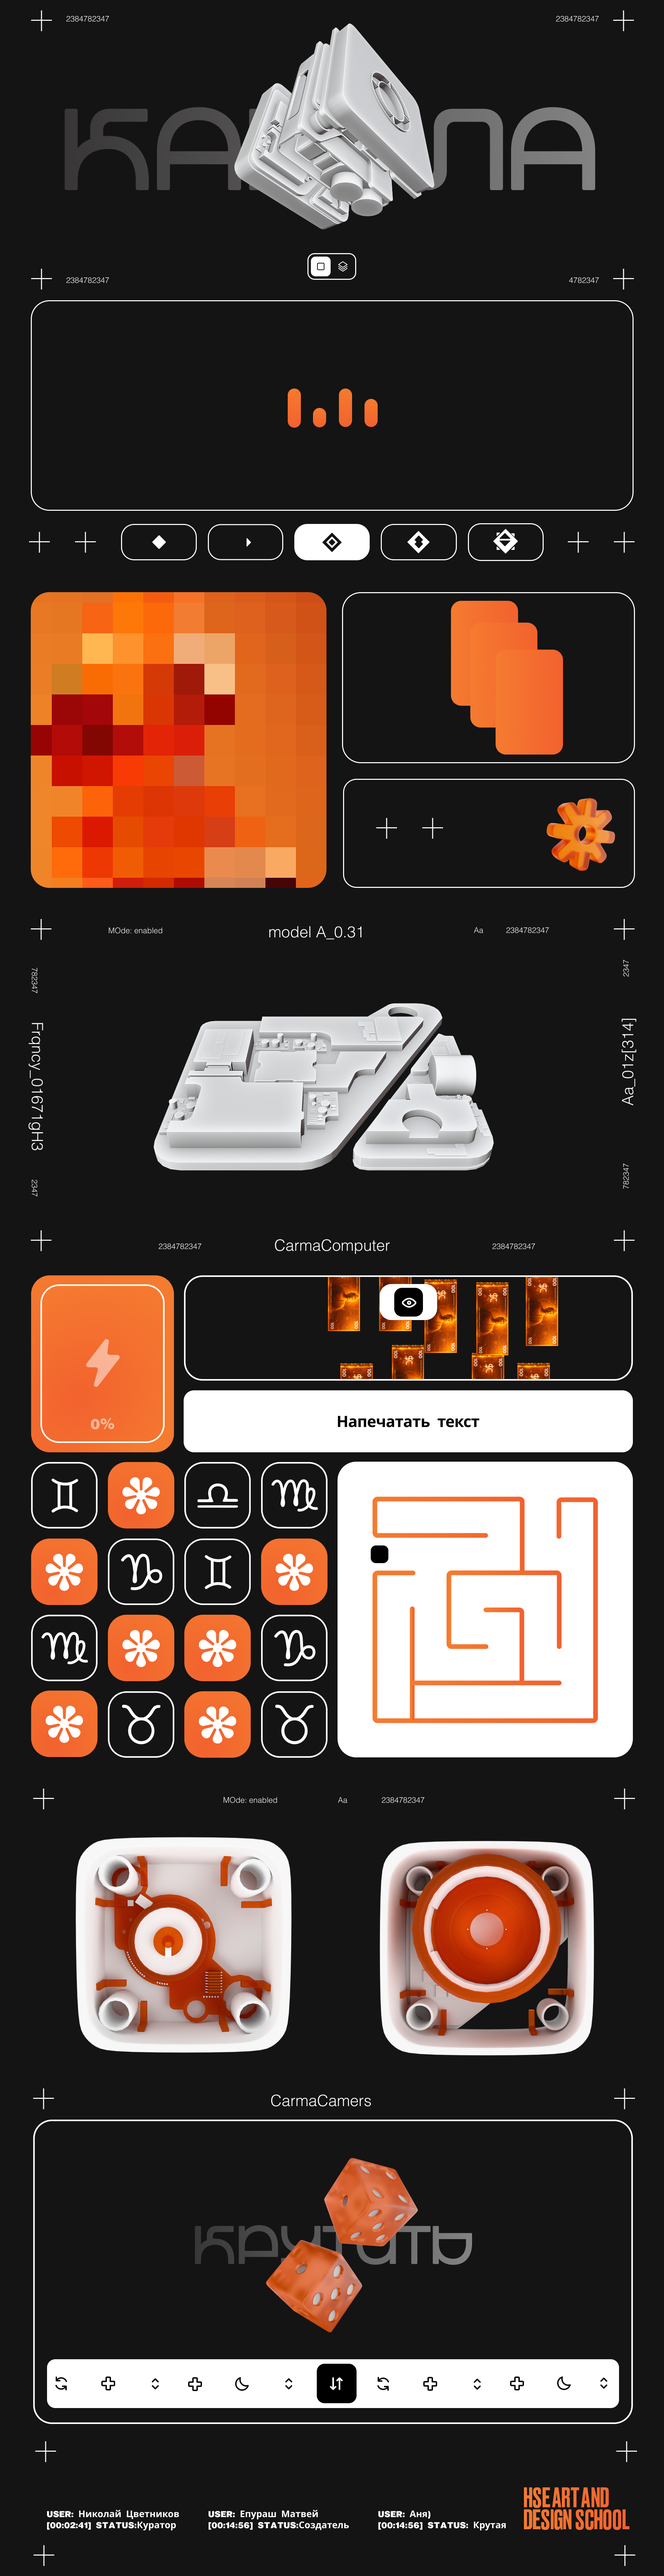
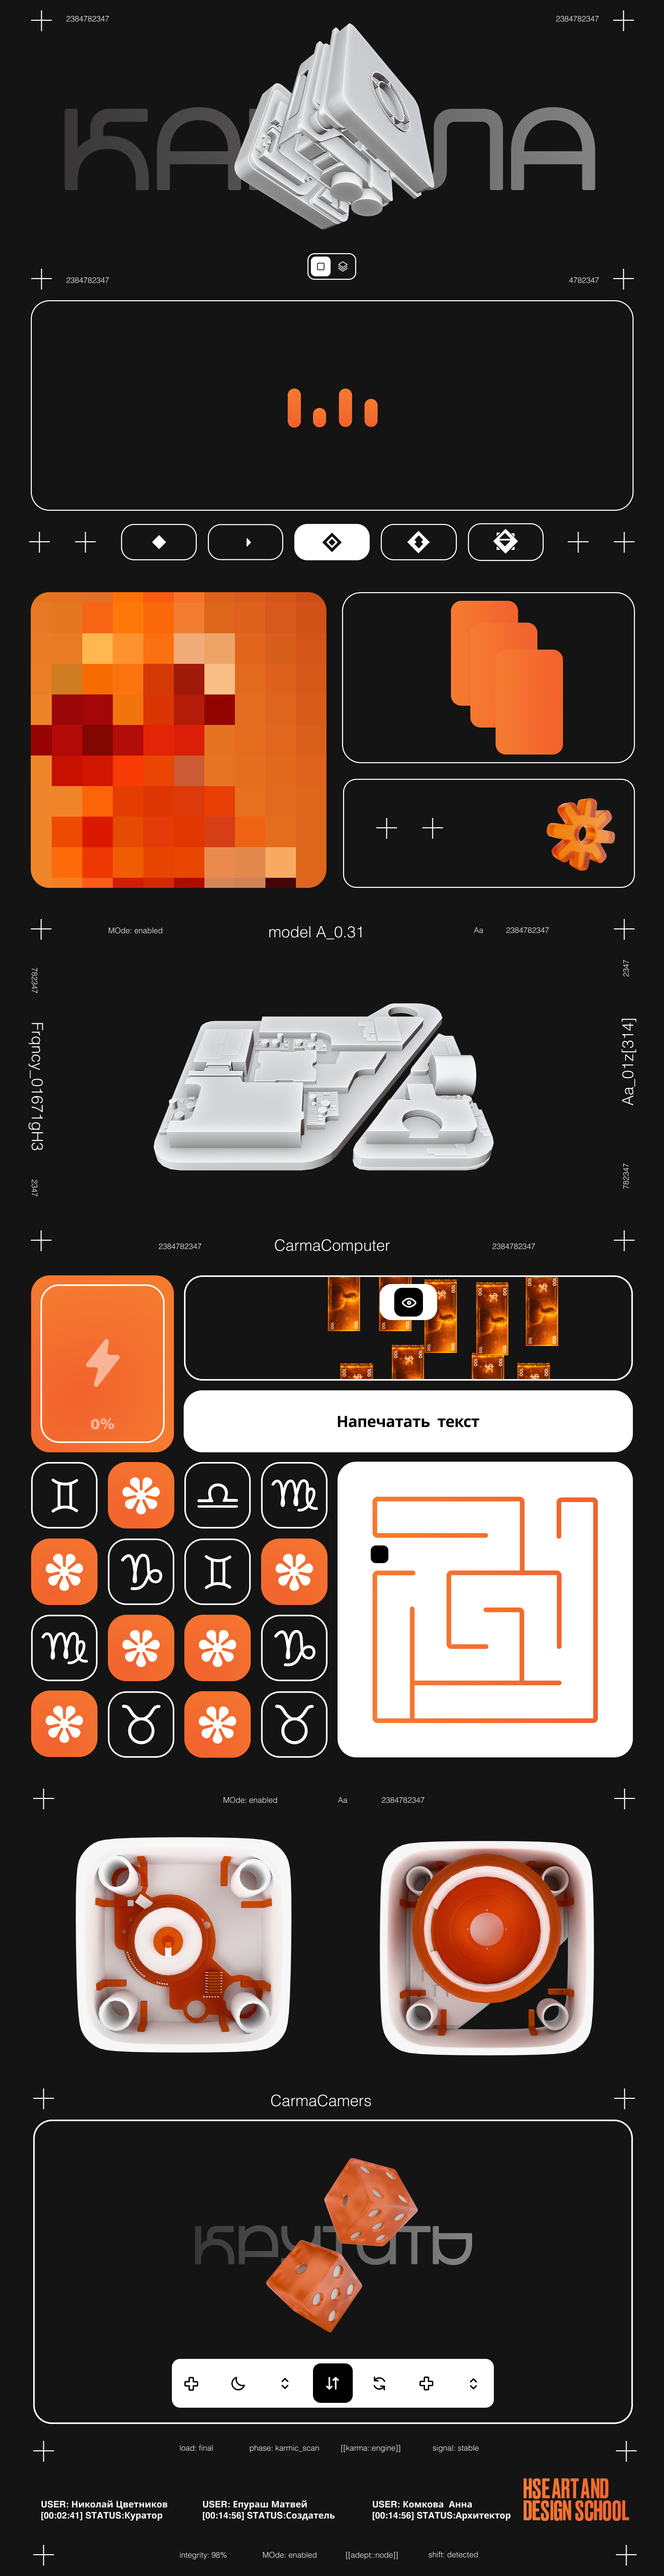
codfdfadsf

diff --git a/Stylesheets/layout.css b/Stylesheets/layout.css
@@ -354,7 +354,6 @@ body::before {
   transform: rotate(90deg);
 }
 .name3 {
-  display: inline-block;
   position: absolute;
   color: #fff;
   transform: rotate(-90deg);
@@ -364,7 +363,7 @@ body::before {
   font-style: normal;
   font-weight: 300;
   line-height: normal;
-  padding-right: 9.4vw;
+  top: 9.4vw;
   padding-left: 66vw;
 }
 .name4 {
@@ -739,4 +738,138 @@ body::before {
   width: 90.625vw;
   height: 20vw;
   top: 4.4vw;
+}
+.hseLogo {
+  position: absolute;
+  width: 15.885vw;
+  height: 6.406vw;
+  top: 5.5vw;
+  left: 74.2vw;
+}
+.kurator1 {
+  color: #fff;
+  font-family: Helvetica;
+  font-size: 1.354vw;
+  font-weight: 700;
+  padding-top: 8.5vw;
+  padding-left: 1.5vw;
+  line-height: 1.7vw;
+}
+.kurator2 {
+  color: #fff;
+  font-family: Helvetica;
+  font-size: 1.354vw;
+  font-weight: 700;
+  padding-top: 8.5vw;
+  padding-left: 6vw;
+  line-height: 1.7vw;
+}
+.kurator3 {
+  color: #fff;
+  font-family: Helvetica;
+  font-size: 1.354vw;
+  font-weight: 700;
+  padding-top: 8.5vw;
+  padding-left: 6vw;
+  line-height: 1.7vw;
+}
+.krest17 {
+  position: absolute;
+  width: 2.9vw;
+  height: 3.1vw;
+  padding-top: 0vw;
+  padding-left: 0.5vw;
+}
+.krest18 {
+  position: absolute;
+  width: 2.9vw;
+  height: 3.1vw;
+  padding-top: 0vw;
+  padding-left: 88.2vw;
+}
+.krest19 {
+  position: absolute;
+  width: 2.9vw;
+  height: 3.1vw;
+  padding-top: 17vw;
+  padding-left: 0.5vw;
+}
+.krest20 {
+  position: absolute;
+  width: 2.9vw;
+  height: 3.1vw;
+  padding-top: 17vw;
+  padding-left: 88.2vw;
+}
+.number15 {
+  font-family: 'Helvetica';
+  font-weight: 300;
+  color: #fff;
+  font-size: 1.172vw;
+  position: absolute;
+  padding-top: 0.2vw;
+  padding-left: 22.3vw;
+}
+.number16 {
+  font-family: 'Helvetica';
+  font-weight: 300;
+  color: #fff;
+  font-size: 1.172vw;
+  position: absolute;
+  padding-top: 0.2vw;
+  padding-left: 32.9vw;
+}
+.number17 {
+  font-family: 'Helvetica';
+  font-weight: 300;
+  color: #fff;
+  font-size: 1.172vw;
+  position: absolute;
+  padding-top: 0.2vw;
+  padding-left: 46.5vw;
+}
+.number18 {
+  font-family: 'Helvetica';
+  font-weight: 300;
+  color: #fff;
+  font-size: 1.172vw;
+  position: absolute;
+  padding-top: 0.2vw;
+  padding-left: 60.5vw;
+}
+.number19 {
+  font-family: 'Helvetica';
+  font-weight: 300;
+  color: #fff;
+  font-size: 1.172vw;
+  position: absolute;
+  padding-top: 17.8vw;
+  padding-left: 22vw;
+}
+.number20 {
+  font-family: 'Helvetica';
+  font-weight: 300;
+  color: #fff;
+  font-size: 1.172vw;
+  position: absolute;
+  padding-top: 17.8vw;
+  padding-left: 34vw;
+}
+.number21 {
+  font-family: 'Helvetica';
+  font-weight: 300;
+  color: #fff;
+  font-size: 1.172vw;
+  position: absolute;
+  padding-top: 17.8vw;
+  padding-left: 47vw;
+}
+.number22 {
+  font-family: 'Helvetica';
+  font-weight: 300;
+  color: #fff;
+  font-size: 1.172vw;
+  position: absolute;
+  padding-top: 17.8vw;
+  padding-left: 60vw;
 }

diff --git a/index.html b/index.html
@@ -71,7 +71,7 @@
       <img class="krest12" src="Images/krest.jpg" alt="" />
       <p class="name1">model A_0.31</p>
       <p class="name2">Frqncy_01671gH3</p>
-      <!-- <p class="name3">Aa_01z[314]</p> -->
+      <p class="name3">Aa_01z[314]</p>
       <p class="name4">CarmaComputer</p>
       <p class="number5">MOde: enabled</p>
       <p class="number6">Aa</p>
@@ -154,6 +154,29 @@
       <img class="spinletter" src="Images/spinletter.svg" alt="" />
       <div class="spinButton2"></div>
     </section>
-    <section class="section9"></section>
+    <section class="section9">
+      <img class="krest17" src="Images/krest.jpg" alt="" />
+      <img class="krest18" src="Images/krest.jpg" alt="" />
+      <img class="krest19" src="Images/krest.jpg" alt="" />
+      <img class="krest20" src="Images/krest.jpg" alt="" />
+      <p class="kurator1">
+        USER: Николай Цветников<br />[00:02:41] STATUS:Куратор
+      </p>
+      <p class="kurator2">
+        USER: Епураш Матвей<br />[00:14:56] STATUS:Создатель
+      </p>
+      <p class="kurator3">
+        USER: Комкова Анна <br />[00:14:56] STATUS:Архитектор
+      </p>
+      <img class="hseLogo" src="Images/HSeLogo.svg" alt="" />
+      <p class="number15">load: final</p>
+      <p class="number16">phase: karmic_scan</p>
+      <p class="number17">[[karma::engine]]</p>
+      <p class="number18">signal: stable</p>
+      <p class="number19">integrity: 98%</p>
+      <p class="number20">MOde: enabled</p>
+      <p class="number21">[[adept::node]]</p>
+      <p class="number22">shift: detected</p>
+    </section>
   </body>
 </html>
